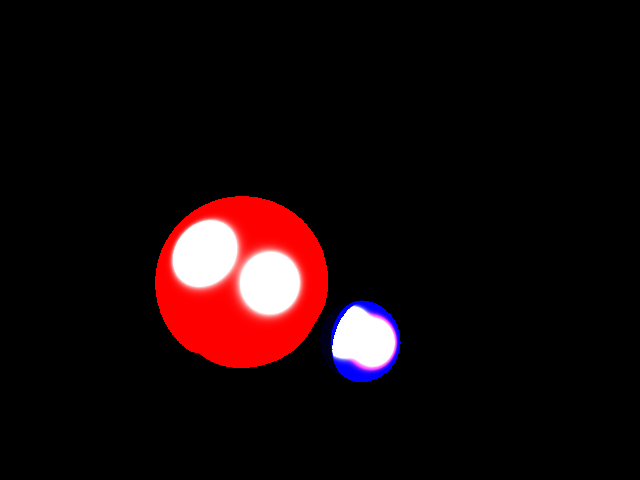
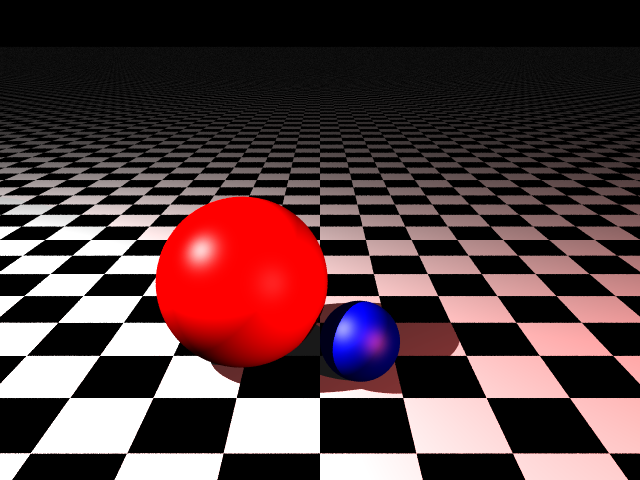
step 7 done

diff --git a/geometry.py b/geometry.py
@@ -34,10 +34,9 @@ def intersectSphere(sphere: Sphere, ray: Ray, t_min: float, t_max: float) -> Int
 
     hit = Intersection() # default is no intersection (is_hit = False)
 
-    # TODO: Objective 2: Implement ray-sphere intersection
-    O_local = sphere.M_inv @ tm.vec4(ray.origin, 1.0)
-    D_local = sphere.M_inv @ tm.vec4(ray.direction, 0.0)
-    D_local_norm = tm.normalize(D_local.xyz)
+    local_ray = changeRayFrame(ray, sphere.M_inv)
+    O_local = local_ray.origin
+    D_local_norm = tm.normalize(local_ray.direction)
     center = tm.vec3(0.0)
     radius = sphere.radius
     a = tm.dot(D_local_norm, D_local_norm)
@@ -107,10 +106,52 @@ def intersectPlane(plane: Plane, ray: Ray, t_min: float, t_max: float) -> Inters
         are applied in a checkerboard pattern in the plane's local XZ plane.
     '''
 
-    hit = Intersection() # default is no intersection (is_hit = False)
+    hit = Intersection()  # default is no intersection (is_hit = False)
 
-    # TODO: Objective 5: Implement ray-plane intersection
+    # Use Objective 4 helper to transform ray into plane's local frame
+    local_ray = changeRayFrame(ray, plane.M_inv)
+    O_local = local_ray.origin
+    D_local_norm = tm.normalize(local_ray.direction)
 
+    # Plane normal in local space
+    N_local = plane.normal
+
+    # Ray-plane intersection in local space: N · (O + t D) = 0
+    N_dot_D = tm.dot(N_local, D_local_norm)
+
+    # Only do intersection work if not parallel
+    if ti.abs(N_dot_D) >= EPSILON:
+        # t = - (N · O) / (N · D)
+        t = -tm.dot(N_local, O_local) / N_dot_D
+
+        # Check valid t range
+        if t >= t_min and t <= t_max:
+            hit.is_hit = True
+            hit.t = t
+
+            # Local intersection point
+            P_local = O_local + t * D_local_norm
+
+            # Choose material (checkerboard in local XZ if two_materials)
+            if plane.two_materials:
+                x_int = ti.floor(P_local.x)
+                z_int = ti.floor(P_local.z)
+                x_parity = ti.cast(x_int, ti.i32) % 2
+                z_parity = ti.cast(z_int, ti.i32) % 2
+                if (x_parity + z_parity) % 2 == 0:
+                    hit.mat = plane.material1
+                else:
+                    hit.mat = plane.material2
+            else:
+                hit.mat = plane.material1
+
+            # Transform intersection data back to world space
+            P_world_h = plane.M @ tm.vec4(P_local, 1.0)
+            hit.position = P_world_h.xyz
+
+            M_inv_T = plane.M_inv.transpose()
+            N_world_h = M_inv_T @ tm.vec4(N_local, 0.0)
+            hit.normal = tm.normalize(N_world_h.xyz)
 
     return hit
 
@@ -126,10 +167,86 @@ class AABox:
 
 @ti.func
 def intersectAABox(aabox: AABox, ray: Ray, t_min: float, t_max: float) -> Intersection:
-    hit = Intersection() # default is no intersection (is_hit = False)
+    hit = Intersection()  # default is no intersection (is_hit = False)
 
-    # TODO: Objective 7: Implement ray-box intersection
+    # Use Objective 4 helper to transform ray into the box's local frame
+    # (where the AABox is axis-aligned between minpos and maxpos)
+    local_ray = changeRayFrame(ray, aabox.M_inv)
+    O_local = local_ray.origin
+    D_local = local_ray.direction
 
+    # Slab method for axis-aligned box intersection in local space
+    t_enter = t_min
+    t_exit = t_max
+    hit_axis = -1  # 0=x,1=y,2=z to determine normal later
+
+    for axis in ti.static(range(3)):
+        origin_comp = O_local[axis]
+        dir_comp = D_local[axis]
+        min_comp = aabox.minpos[axis]
+        max_comp = aabox.maxpos[axis]
+
+        if ti.abs(dir_comp) < EPSILON:
+            # Ray is parallel to slabs; must be within the slab range to possibly hit
+            if origin_comp < min_comp or origin_comp > max_comp:
+                # No intersection with this slab -> no hit at all
+                t_enter = t_max + 1.0  # force miss
+        else:
+            inv_dir = 1.0 / dir_comp
+            t0 = (min_comp - origin_comp) * inv_dir
+            t1 = (max_comp - origin_comp) * inv_dir
+            # Ensure t0 <= t1
+            if t0 > t1:
+                tmp = t0
+                t0 = t1
+                t1 = tmp
+
+            # Update global enter and exit
+            if t0 > t_enter:
+                t_enter = t0
+                hit_axis = axis
+            if t1 < t_exit:
+                t_exit = t1
+
+    # Valid intersection if interval is non-empty and within [t_min, t_max]
+    if t_enter <= t_exit and t_enter >= t_min and t_enter <= t_max:
+        hit.is_hit = True
+        hit.t = t_enter
+
+        # Local hit point
+        P_local = O_local + t_enter * D_local
+
+        # Local normal based on which face we entered
+        N_local = tm.vec3(0.0, 0.0, 0.0)
+        if hit_axis == 0:
+            # x-face
+            if P_local.x <= (aabox.minpos.x + aabox.maxpos.x) * 0.5:
+                N_local.x = -1.0
+            else:
+                N_local.x = 1.0
+        elif hit_axis == 1:
+            # y-face
+            if P_local.y <= (aabox.minpos.y + aabox.maxpos.y) * 0.5:
+                N_local.y = -1.0
+            else:
+                N_local.y = 1.0
+        elif hit_axis == 2:
+            # z-face
+            if P_local.z <= (aabox.minpos.z + aabox.maxpos.z) * 0.5:
+                N_local.z = -1.0
+            else:
+                N_local.z = 1.0
+
+        # Assign material in local space
+        hit.mat = aabox.material
+
+        # Transform intersection point and normal back to world space
+        P_world_h = aabox.M @ tm.vec4(P_local, 1.0)
+        hit.position = P_world_h.xyz
+
+        M_inv_T = aabox.M_inv.transpose()
+        N_world_h = M_inv_T @ tm.vec4(N_local, 0.0)
+        hit.normal = tm.normalize(N_world_h.xyz)
 
     return hit
 

diff --git a/scene.py b/scene.py
@@ -100,57 +100,82 @@ class Scene:
         for l in range(self.nb_lights):
             current_light = self.lights[l]
 
-            # light vector (direction)
-            L_vec = current_light.vector - intersect.position
-            light_distance = tm.length(L_vec)
-            
-            # normalized light vector
-            L_norm = L_vec / light_distance 
-            N_norm = intersect.normal 
+            # Initialize variables
+            L_norm = tm.vec3(0.0)
+            t_max_shadow = float('inf') # Default for directional light
+            light_distance = 0.0
+            attenuation_factor = 1.0     # Default: No attenuation (e.g., Directional Light)
 
-            N_dot_L = tm.max(0.0, tm.dot(N_norm, L_norm)) 
+            # --- 1. Determine Light Vector (L), Distance, and Attenuation ---
             
-            shadow_attenuation = 1.0
-            # if facing the light
-            if N_dot_L > 0.0: 
+            if current_light.ltype == 1: # Point Light
+                # L_vec: Vector from hit point TO light source position
+                L_vec = current_light.vector - intersect.position
+                light_distance = tm.length(L_vec)
                 
-                # Shadow Ray setup
-                shadow_ray = Ray(intersect.position, L_norm)
+                # Normalized light vector
+                L_norm = L_vec / light_distance 
+                
+                # Shadow ray stops just before the light source
                 t_max_shadow = light_distance - shadow_epsilon
                 
-                # cast a ray from the intersection point to the light source and check if it hits an object
+                # Calculate Attenuation Factor
+                # Attenuation = 1 / (C + L*d + Q*d^2)
+                # coeffs: [quadratic (x), linear (y), constant (z)]
+                
+                C = current_light.attenuation.z
+                L = current_light.attenuation.y
+                Q = current_light.attenuation.x
+                d = light_distance
+                
+                denominator = C + L * d + Q * d * d
+                
+                # Avoid division by zero, although typically C > 0
+                if denominator > 0.0:
+                    attenuation_factor = 1.0 / denominator
+            
+            elif current_light.ltype == 0: # Directional Light
+                # L_norm: Already stored as the normalized direction TOWARDS the light
+                L_norm = current_light.vector 
+                # t_max_shadow remains float('inf'), attenuation_factor remains 1.0
+
+                
+            N_norm = intersect.normal 
+
+            # Calculate N dot L and clamp it to 0
+            N_dot_L = tm.max(0.0, tm.dot(N_norm, L_norm)) 
+            
+            # --- 2. Shadow Check (Objective 6) ---
+            shadow_attenuation = 1.0
+            
+            if N_dot_L > 0.0: 
+                
+                shadow_ray = Ray(intersect.position, L_norm)
                 shadow_hit = self.intersect_scene(shadow_ray, shadow_epsilon, t_max_shadow) 
                 
                 if shadow_hit.is_hit:
                     shadow_attenuation = 0.0
             
+            # --- 3. Shading (Diffuse & Specular - Objective 3) ---
+            
             # Only proceed if the point is not in shadow
             if shadow_attenuation > 0.0:
                 
-                # diffuse term
-                diffuse_term = current_light.colour * intersect.mat.diffuse * N_dot_L
+                # Apply N_dot_L, light color, material color, AND attenuation
+                
+                # Diffuse term
+                diffuse_term = current_light.colour * intersect.mat.diffuse * N_dot_L * attenuation_factor
 
-                # specular term
+                # Specular term (Blinn-Phong)
                 V_norm = -ray.direction 
-                
-                # H_norm: Halfway Vector (H) = normalize(L + V)
                 H_norm = tm.normalize(L_norm + V_norm)
-                
-                # Specular factor: max(0, N dot H)^shininess
                 N_dot_H = tm.max(0.0, tm.dot(N_norm, H_norm))
-                
                 specular_factor = tm.pow(N_dot_H, intersect.mat.shininess)
                 
-                # Specular term: LightColor * SpecularColor * SpecularFactor
-                specular_term = current_light.colour * intersect.mat.specular * specular_factor
+                # Specular term: apply light color, specular color, factor, AND attenuation
+                specular_term = current_light.colour * intersect.mat.specular * specular_factor * attenuation_factor
 
-                # --- 5. Accumulation ---
+                # Accumulation
                 sample_colour += diffuse_term + specular_term
-            
-            
-            
-            # TODO: Objective 6: Implement shadow rays
-
-            continue
 
         return sample_colour
